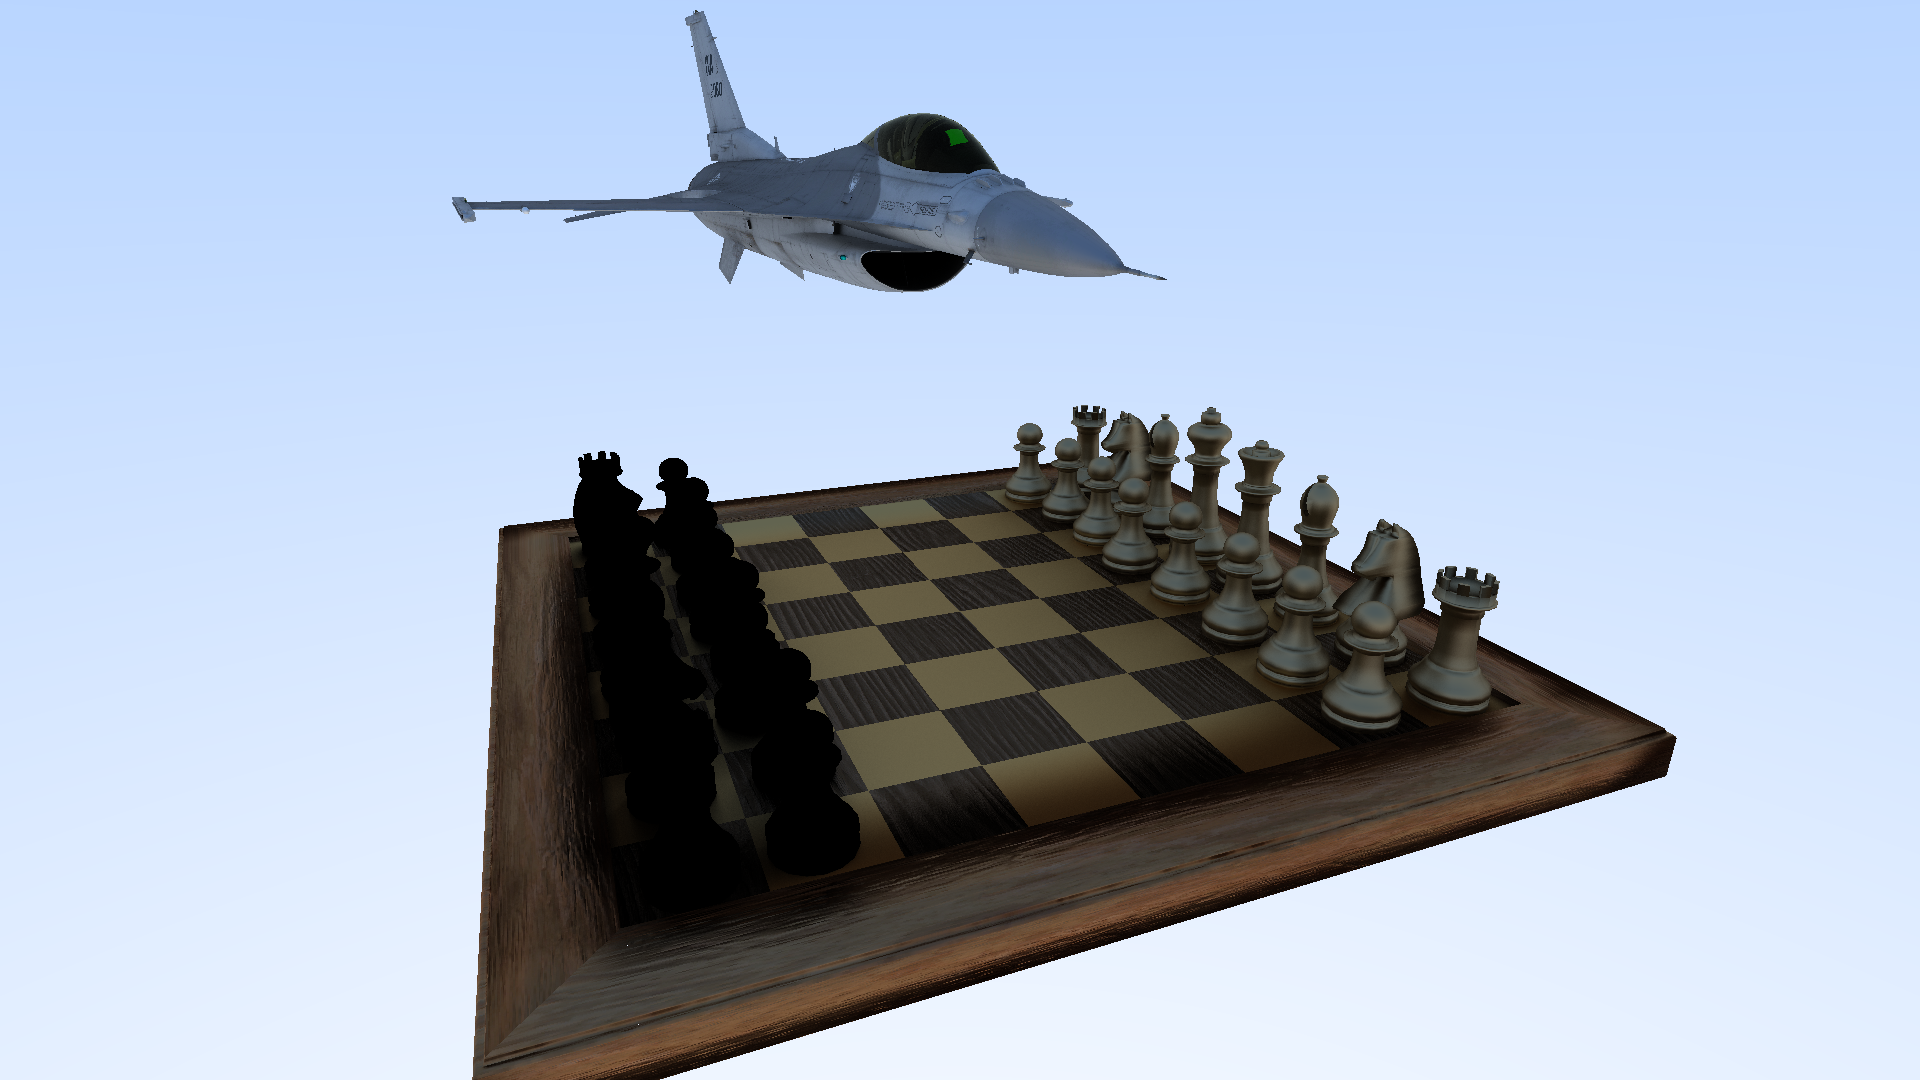
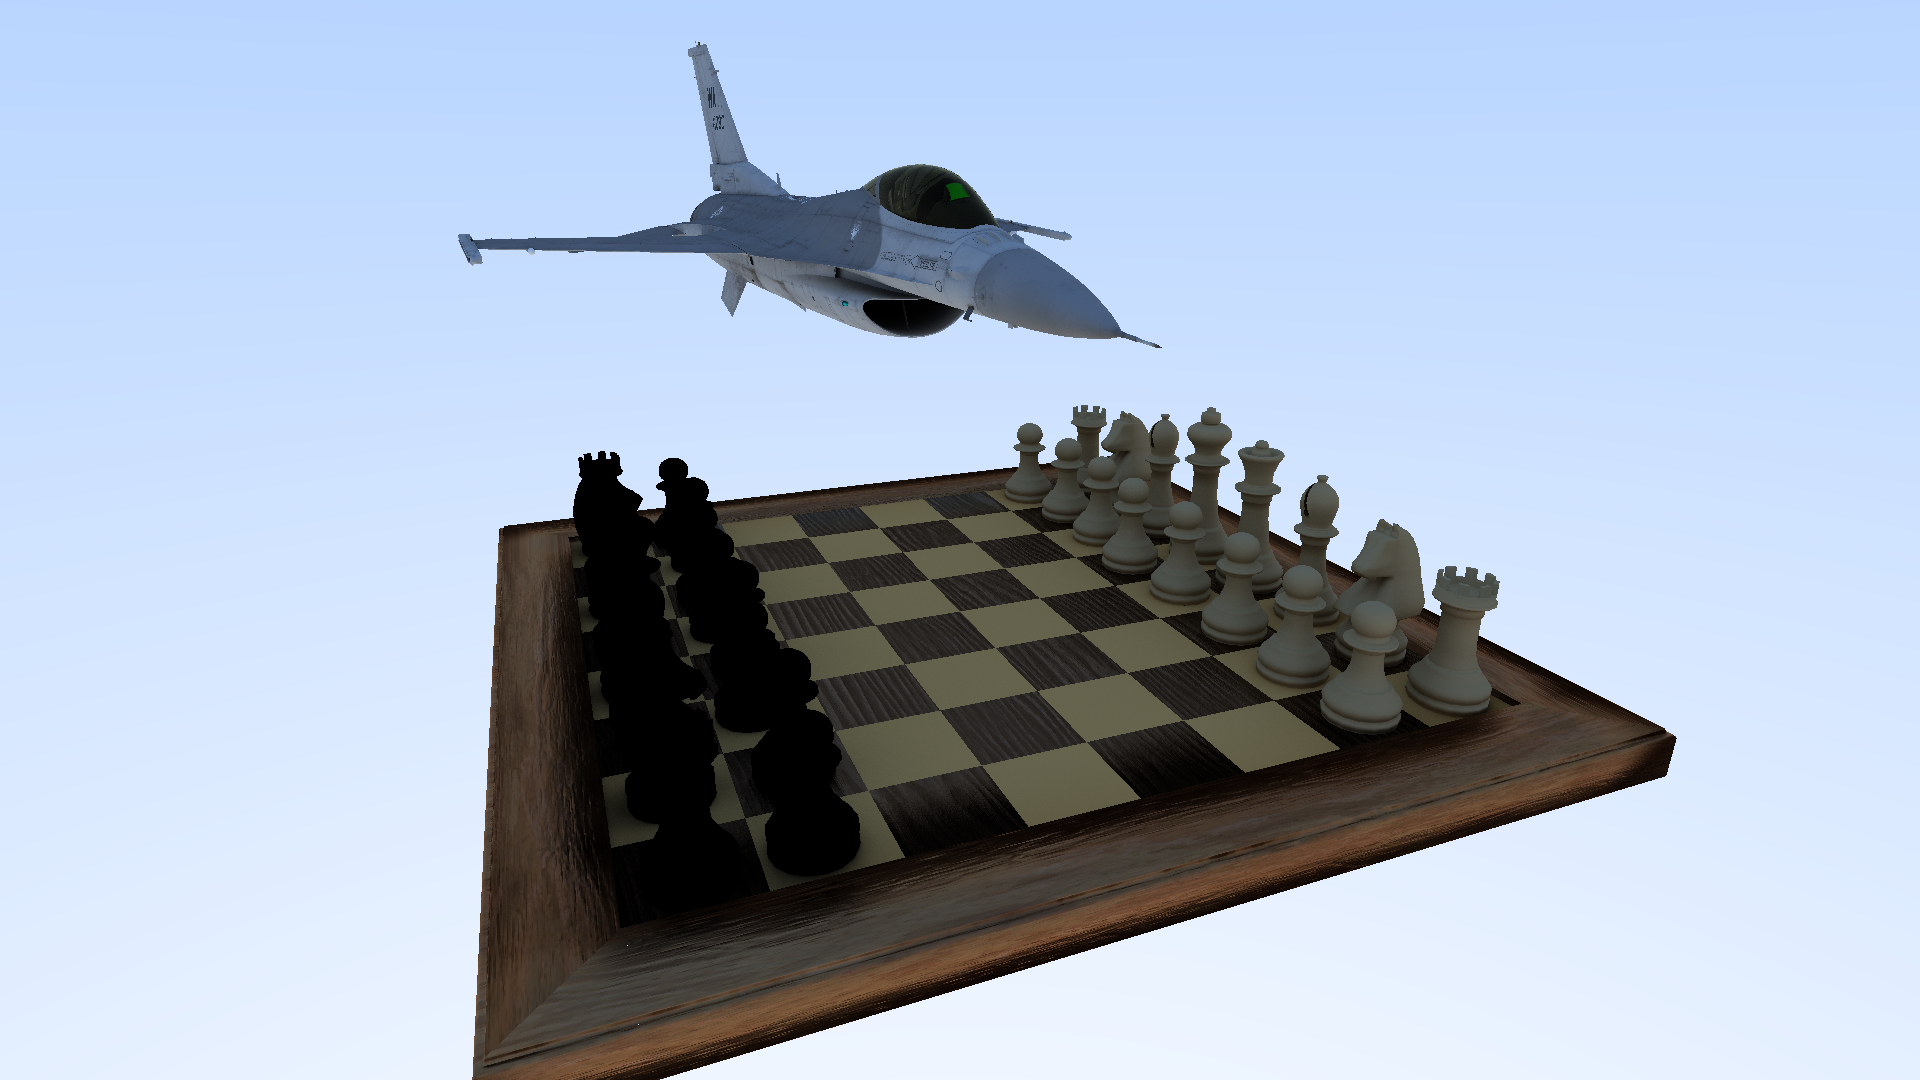
Fix and reexport F16

diff --git a/src/main.rs b/src/main.rs
@@ -31,8 +31,7 @@ fn main() {
     objects.extend(chess_objects);
     materials.extend(chess_materials);
 
-    objects[0].scale(&Vec3::from(0.1));
-    objects[0].translate(&Vec3::new(10.0, -1.0, 2.0));
+    objects[0].translate(&Vec3::new(10.0, 1.0, 2.0));
     objects[0].rotate(&Vec3::new(0.0, 1.0, 0.0), -135.0);
 
     let camera = Camera::new(16.0 / 9.0, 1000, args.samples, materials, true);